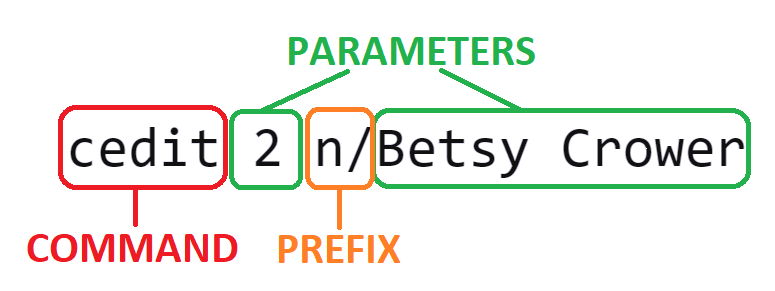
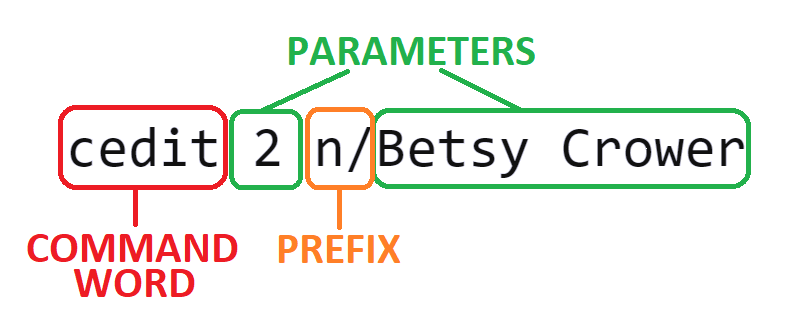
Add glossary explanations and redo

Changed region(s): [[0.031, 0.0928, 0.991, 0.9278]]

diff --git a/docs/UserGuide.md b/docs/UserGuide.md
@@ -28,43 +28,40 @@ full range of features it offers.
 * You can refer to the [Command Summary](#command-summary) for a complete overview of all SoConnect features and commands.
 
 
-## How to read commands in SoConnect
+### How to read commands in SoConnect
 
 You will see commands throughout this User Guide and each of them have their own _Command Syntax_ format.
-
-But not to worry! We will teach you how to read them now!
 
 This is one example of a command: 
 
 ![Command Example](images/demo-screenshots/commandSyntax.png)
 
 There are only 3 different parts of inputs within each command:
-1. **COMMAND**
+1. **COMMAND WORD**
 
-Command is the word that you need to specify when you need SoConnect to perform some actions for you! 
-Else, SoConnect does not know how it can help you!
+    Command word is the word that you need to specify when you need SoConnect to perform some actions for you. 
+    Else, SoConnect does not know how it can help you!
 
-For example, specifying `cedit` in the command above will tell SoConnect that you want to edit a contact.
+    For example, specifying `cedit` in the command above will tell SoConnect that you want to edit a contact.
 
 2. **_PARAMETER_**
 
-_Parameter_ is the related information that you need to specify to SoConnect for the action you want to do.
+    _Parameter_ is the related information that you need to specify to SoConnect for the action you want to do.
 
-For example, after telling SoConnect to edit a contact, you will need to tell SoConnect which contact to edit
+    Using the same example, after telling SoConnect to edit a contact, you will need to tell SoConnect which contact to edit
 and provide the information for the edit.
 
-Specifying `2` tells SoConnect to edit contact at **index 2** 
-and `Betsy Crower` is the **new name** you want to change the specified contact to.
+    Specifying `2` tells SoConnect to edit contact at **index 2** and `Betsy Crower` 
+is the **new name** you want to change the specified contact to.
 
 3. **_PREFIX_**
 
-You can help SoConnect in separating the type of _parameters_ when you input information.
+    You can help SoConnect in separating the type of _parameters_ when you input information.
 
-Each prefix always ends with one `/`. 
-Jump to [List of Prefixes](#list-of-prefixes) to see all prefixes you can use in SoConnect.
+    Each prefix always ends with one `/`. Jump to [List of Prefixes](#list-of-prefixes) to see all prefixes you can use in SoConnect.
 
-For example, _prefix_ `n/` would help SoConnect to identify the _parameter_ that you specify after `n/` 
-refers to **name** of the contact.
+    For example, information that you specified after _prefix_ `n/` would help SoConnect to identify the _parameter_ 
+is referring to **name** of the contact.
 
 
 Thus, the command above will tell SoConnect to **edit the name of the contact at index 2 to Betsy Crower**.
@@ -108,7 +105,7 @@ Here are some information that can help you in understanding the formats at the 
 
 </div>
 
-# What happens if my command is invalid?
+### What happens if my command is invalid?
 
 After you specified a command to be done on SoConnect, a success message will be shown on the message box of SoConnect.
 
@@ -121,6 +118,8 @@ sections you can find in SoConnect!
 For example, after you specified [`clist`](#listing-all-contacts-clist):
 ![Success Message](images/demo-screenshots/successMessage.png)
 SoConnect will tell you that it has successfully listed all contacts!
+
+<br>
 
 However, when the command you entered does not fulfill the _Command Syntax_ format specified in [Features](#features),
 an **error message** will be shown on the message box instead.
@@ -144,11 +143,16 @@ SoConnect will tell you that the _Command Syntax_ format is invalid!
 3. Copy the file to the folder you want to use as the _home folder_ for your SoConnect.
 
 4. Double-click the file to start SoConnect. This is how SoConnect looks like:<br>
-   SoConnect comes with some sample contacts and events upon installing too!
-   ![Ui](images/Ui.png)
-   If SoConnect does not start by double-clicking, you can check this [alternative](#how-to-start-soconnect-using-terminal) to start it too.
 
-5. Type the _command_ in the command box and press Enter to execute it. 
+    <div markdown="span" class="alert alert-info">:information_source: **Note:**
+
+    SoConnect comes with some sample contacts and events upon installation!
+    </div>
+
+    ![Ui](images/Ui.png)
+    If SoConnect does not start by double-clicking, you can check this [alternative](#how-to-start-soconnect-using-terminal) to start it too.
+
+5. **Type the _command_ in the command box and press Enter** to execute it. 
 
     <div markdown="span" class="alert alert-primary">:bulb: **Tip:**
 
@@ -179,7 +183,51 @@ _See also: [What happens if my command is invalid](#what-happens-if-my-command-i
 This is what you will see when you open SoConnect!
 ![Labelled SoConnect](images/demo-screenshots/labelledSoconnectOverview.png)
 
-_See also: [Icons in Contact List](#icons-in-contact-list) and [Icons in Event List](#icons-in-events-list)_
+1. **Menu Bar**
+
+    Menu Bar consists if 2 tabs: `File` and `Help`.
+    
+    Upon clicking `File`, you can choose to:
+   1. **Exit** SoConnect
+   2. Open **Calendar** of SoConnect
+
+    ![File Tab](images/demo-screenshots/fileTab.png)
+   
+    <div markdown="span" class="alert alert-primary">:bulb: **Tip:**
+
+    Checkout how to [exit SoConnect](#exiting-soconnect-exit) and open [Calendar](#calendar-window-calendar) of SoConnect using commands!
+    </div> <br>
+
+    Upon clicking `Help`, you can choose to open **Help Window** of SoConnect.
+    ![Help Tab](images/demo-screenshots/helpTab.png)
+
+    <div markdown="span" class="alert alert-primary">:bulb: **Tip:**
+
+   Checkout how to open [Help Window](#help-window-help) of SoConnect using commands!
+    </div>
+     
+2. **Command Box**
+
+    This is where you can type all your commands to use the [features of SoConnect](#features).
+
+3. **Message Box**
+
+    Displays the message from SoConnect **after** you have executed one command.
+
+    See Also: [What happens if my command is invalid?](#what-happens-if-my-command-is-invalid) 
+
+5. **Contact List**
+    
+    Displays information of the contacts you saved in SoConnect. 
+
+    Refer to [Icons in Contact List](#icons-in-contact-list) to see the different _fields_ that each icon represents in Contact List.
+
+6. **Event list**
+
+    Displays information of the events you saved in SoConnect.
+
+    Refer to [Icons in Event List](#icons-in-events-list) to see the different _fields_ that each icon represents in Event List.
+
 
 
 ### Icons in Contact List
@@ -695,7 +743,7 @@ Sorts all events by start time and displays all upcoming or ongoing events.
 
 <div markdown="span" class="alert alert-info">:information_source: **Note:**
 
-Events that have ended will not be shown after you execute `esort`
+Events that have ended **will not be shown** after you execute `esort`
 </div>
 
 
@@ -739,6 +787,7 @@ This section details all other the features and commands available in SoConnect 
 * [Calendar Window](#calendar-window-calendar)
 * [Exiting SoConnect](#exiting-soconnect-exit)
 * [Help Window](#help-window-help)
+* [Redo a command](#redo-a-command-redo)
 * [Undo a command](#undo-a-command-undo)
 
 ### Calendar Window: `calendar`
@@ -752,10 +801,12 @@ Shows a calendar of all the events.
   * Weekly
   * Monthly
   * Yearly
+![calendar](images/demo-screenshots/Calendar.png)
+
 
 <div markdown="span" class="alert alert-primary">:bulb: **Tip:**
 
-Alternatively, you can view the calendar using the top menu via `File -> Calendar` or press `F2`.
+Alternatively, you can view the calendar using the top menu bar via `File -> Calendar` or press `F2`.
 </div>
 
 <div markdown="span" class="alert alert-warning">:exclamation: **Caution:**
@@ -764,7 +815,6 @@ Do not attempt to add new events using the calendar window.
 Doing so might result in a crash and your data may be lost.
 </div>
 
-![calendar](images/demo-screenshots/Calendar.png)
 
 
 ### Exiting SoConnect: `exit`
@@ -772,6 +822,11 @@ Doing so might result in a crash and your data may be lost.
 Exits and closes SoConnect.
 
 **Format:** `exit`
+
+<div markdown="span" class="alert alert-primary">:bulb: **Tip:**
+
+Alternatively, you can exit SoConnect using the top menu bar via `File -> Exit`.
+</div>
 
 
 ### Help Window: `help`
@@ -781,6 +836,23 @@ Displays a summary of all commands in SoConnect User Guide.
 **Format:** `help`
 
 ![help message](images/demo-screenshots/helpMessage.png)
+
+<div markdown="span" class="alert alert-primary">:bulb: **Tip:**
+
+Alternatively, you can view the help window using the top menu bar via `Help -> Help` or press `F1`.
+</div>
+
+
+### Redo a command: `redo`
+
+Restores SoConnect to a previously undone state from its history.
+
+**Format:** `redo`
+
+**Examples:**
+* `edelete 1` followed by `undo` restores the deleted event in the event list. This followed by `redo` command will delete the event at index 1 again.
+
+_See Also: [Undo a command](#undo-a-command-undo)_
 
 
 ### Undo a command: `undo`
@@ -793,6 +865,8 @@ Restores SoConnect to its previous state from its history.
 * `edelete 1` followed by `undo` restores the deleted event in the event list.
 * `add n/John Doe e/john@gmail.com` followed by `undo` removes the added contact from contact list.
 * `eview 1` followed by `undo` will display the full event list.
+
+_See Also: [Redo a command](#redo-a-command-redo)_
 
 
 --------------------------------------------------------------------------------------------------------------------
@@ -957,6 +1031,7 @@ Action | Format, Examples
 **[Calendar](#calendar-window-calendar)** | `calendar`
 **[Exit](#exiting-soconnect-exit)** | `exit`
 **[Help](#help-window-help)** | `help`
+**[Redo](#redo-a-command-redo)** | `redo`
 **[Undo](#undo-a-command-undo)** | `undo`
 
 ________________________________________________________________________________________________________________
@@ -965,12 +1040,12 @@ ________________________________________________________________________________
 
 Word | Explanation
 --------|------------------
-**Command Line Interface (CLI)** | Text-based user interface.
-**Command Syntax** |
-**Field(s)** |
-**Graphical User Interface (GUI)** |
-**Hard Disk** |
-**Home Folder** |
-**JSON File** |
-**OR Search** |
-**Parameter(s)** |
+**Command Line Interface (CLI)** | Text-based application where user interact with the application by **typing in texts/ commands**
+**Command Syntax** | The structure that a command must abide by for it to be executed 
+**Field(s)** | The information type within each contact or event <br> For example, **Name** and **Address** of a contact are _fields_ of a contact.
+**Graphical User Interface (GUI)** | Graphical representation of the application that the user sees
+**Hard Disk** | Device in computer that is used to save files of the computer
+**Home Folder** | Folder which the application file is saved in the computer
+**JavaScript Object Notation (JSON) File** | The file that is used by the application to load its data and to save data of the application in a human-readable format.
+**OR Search** | 
+**Parameter(s)** | Information supplied by the user to the application when executing certain commands 
